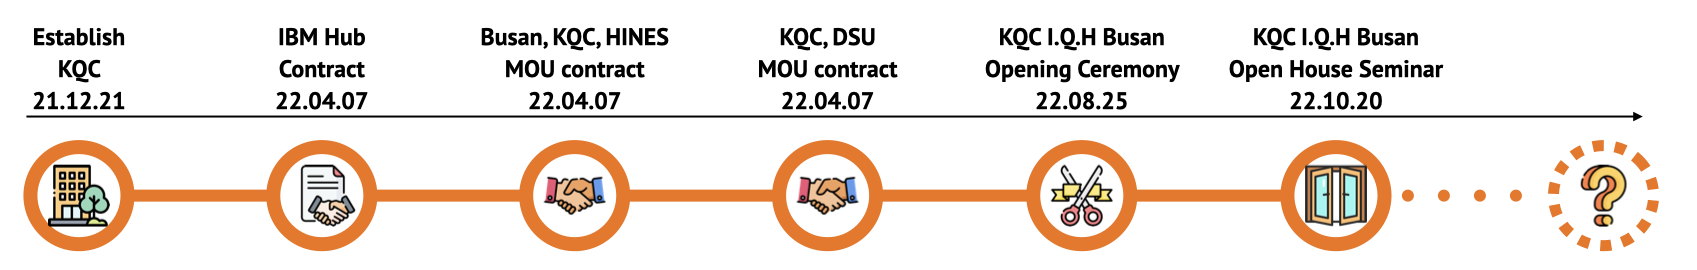
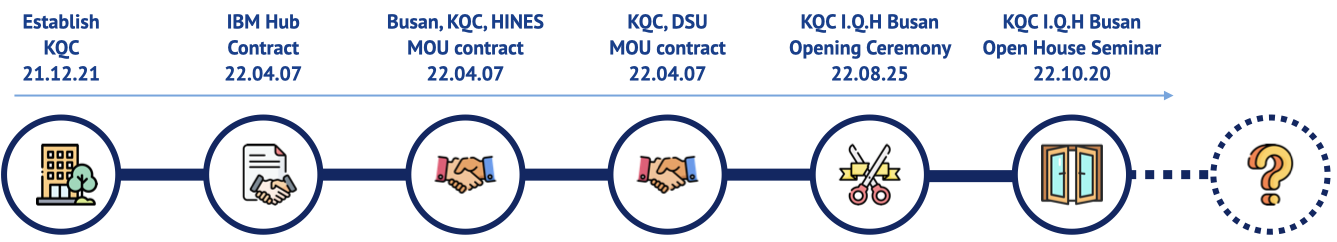
change image for mission and aboutus page

Changed region(s): [[0.0, 0.0579, 1.0, 0.9835]]

diff --git a/src/components/Aboutus-detail/AboutusDetailElements.js b/src/components/Aboutus-detail/AboutusDetailElements.js
@@ -178,8 +178,8 @@ export const NavLi = styled.li`
   transition: all 0.7s;
   font-size: 1.4rem;
   font-weight: bold;
-  background: #010606;
-  color: #f7f8fa;
+  background: #0b2865;
+  color: #02408f;
   // border-bottom-left-radius: 2rem;
   // border-top-left-radius: 2rem;
 
@@ -187,8 +187,8 @@ export const NavLi = styled.li`
     background: rgba(50, 224, 196, 0.15);
   }
   &.active {
-    background: #f7f8fa;
-    color: #010606;
+    background: #fff;
+    color: #0b2865;
 `;
 
 
@@ -202,7 +202,8 @@ export const Content = styled.div`
 export const AdvisorContaner = styled.div`
   margin-top: 50px;
   display: grid;
-  grid-template-columns: repeat(4, 1fr);
+  height: 850px;
+  grid-template-columns: repeat(3, 1fr);
   grid-gap: 40px;
 
 `;
@@ -249,10 +250,12 @@ export const CardBody = styled.div`
 
 export const CardDesc = styled.div`
   margin-top: 20px;
-  color: #555;
-  font-size: 0.4em;
+  color: #222;
+  padding-left: 20px;
+  padding-right: 20px;
+  font-size: 0.3em;
   font-weight: 400;
-  line-height: .9;
+  line-height: 1.2;
 `;
 
 

diff --git a/src/components/Aboutus-detail/index.js b/src/components/Aboutus-detail/index.js
@@ -25,8 +25,8 @@ const AboutusDetail = () => {
           </Icon> 
         </div>
         <div style = {{color: 'white', height: '400px', display: 'flex', alignItems: 'center'}}>
-          <div style = {{color: 'white', }}>
-            <img style = {{color: 'white', width: '100%'}} src = {require('../../images/kqc-history-small.png')} alt = 'kqc-history'/>
+          <div style = {{color: 'white', width: '100%'}}>
+            <img style = {{width: '100%'}} src = {require('../../images/kqc-history-small.png')} alt = 'kqc-history'/>
           </div>
         </div>
         <div style = {{background: 'red', minHeight: '600px'}}>

diff --git a/src/components/Aboutus-detail/AboutUs.js b/src/components/Aboutus-detail/AboutUs.js
@@ -6,7 +6,7 @@ const AboutUs = () => {
     <div style = {{display: 'flex', justifyContent: 'center', height: '500px'}}>
         <img src = {require('../../images/kqc-mission-vision.png')} alt = 'mission-vision'/>
     </div>
-    <h2 style = {{fontWeight: 'bold', color: '#010606',  marginTop: '30px'}}>Milestones</h2>
+    <h2 style = {{fontWeight: 'bold', color: '#010606',  marginTop: '30px'}}>Member Benefits</h2>
     <div style = {{display: 'flex', justifyContent: 'center', height: '500px'}}>
         <img src = {require('../../images/kqc-milestones.png')} alt = 'milestones'/>
     </div>

diff --git a/src/components/Aboutus-detail/Advisory.js b/src/components/Aboutus-detail/Advisory.js
@@ -14,7 +14,7 @@ const Advisory = () => {
 
   return (
     <>
-    <AdvisorContaner>
+    <AdvisorContaner style = {{paddingBottom: '100px'}}>
       {
         advisors.map((a) => (
           <PeopleCard>
@@ -34,12 +34,6 @@ const Advisory = () => {
           </PeopleCard>
         ))
       }
-      <div>B</div>
-      <div>C</div>
-      <div>D</div>
-      <div>E</div>
-      <div>A</div>
-      <div>A</div>
     </AdvisorContaner>
     </>
   )
